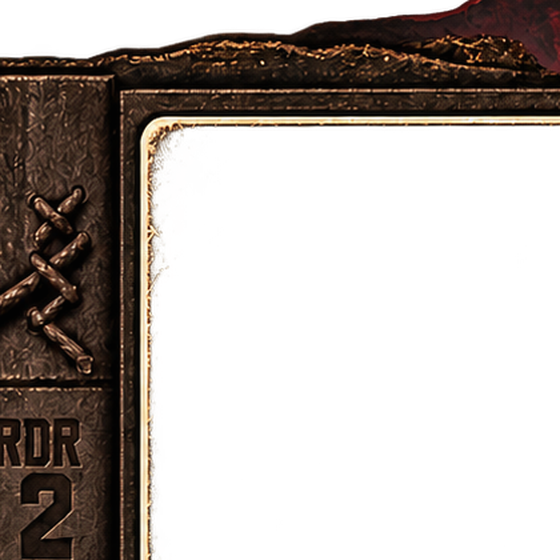
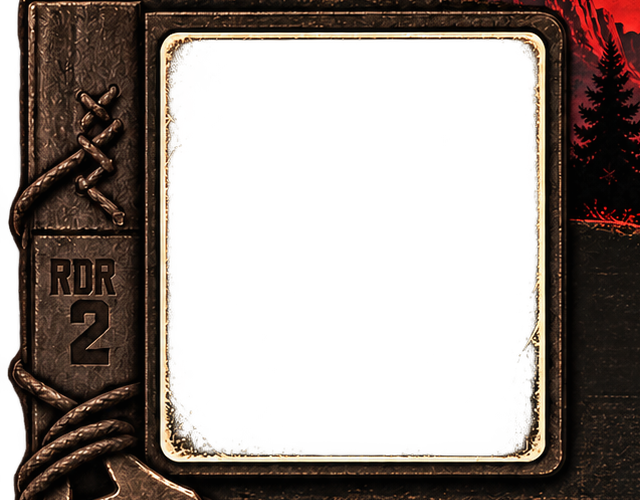
Fix Spotify widget album-art overlay in all four themes
- Re-measured every album-frame opening against the actual crop art
  (previous fractions were eyeballed and wrong):
  VC art was a small square floating in a large opening; RDR2 art sat
  on the leather strap; SA opening was mis-sized.
- Re-cropped RDR2 album.png: the old crop cut off the brass frame's
  right and bottom edges. New 640x500 crop holds the full frame.
- Album art now fills the measured opening box (explicit height, not
  assumed square) so landscape openings compose correctly.
- VC album zone bigger (78cqw) to match the reference proportions.
- SW cache bump ws-shell-v28 / ws-theme-v8.
- theme_tests.js: 602 assertions green, incl. FRAME regression tests.

diff --git a/tools/theme_tests.js b/tools/theme_tests.js
@@ -146,8 +146,8 @@ ok(SW.isThemeAsset('/fonts/SignPainter/0-255.pbf'), 'isThemeAsset: SignPainter g
 ok(SW.isThemeAsset('/fonts/chalet-london.woff2'), 'isThemeAsset: Chalet woff2');
 ok(SW.isThemeAsset('/fonts/rdr-lino.woff2'), 'isThemeAsset: RDR Lino woff2');
 ok(!SW.isThemeAsset('/fonts/pricedown-bl.woff'), 'VC UI font stays shell, not theme-asset');
-ok(swSrc.includes("ws-shell-v26"), 'SW shell cache v24');
-ok(swSrc.includes("ws-theme-v6"), 'SW theme cache v4');
+ok(swSrc.includes("ws-shell-v28"), 'SW shell cache v28');
+ok(swSrc.includes("ws-theme-v8"), 'SW theme cache v8');
 
 /* ---------- per-theme typography (game-authentic fonts) ---------- */
 for (const f of ['bank-gothic.woff', 'beckett.woff2', 'chalet-london.woff2',
@@ -281,7 +281,7 @@ ok(pngAlphaAt(gvAlbumPng, 280, 280) > 200, 'GV album opening opaque black (art l
 ok(gvSkinJs.includes("register('gta-v'"), 'GV skin registers as gta-v');
 ok(gvSkinJs.includes('data-lyrics-stage'), 'GV lyric stage hook present');
 ok(gvSkinJs.includes('setLyricsRenderer') && gvSkinJs.includes('clearLyrics'), 'GV lyric renderer hooks present');
-ok(gvSkinJs.includes('x0: 0.1125') && gvSkinJs.includes('x1: 0.8875'), 'GV art opening fractions 0.1125/0.8875');
+ok(gvSkinJs.includes('x0: 0.12') && gvSkinJs.includes('x1: 0.88'), 'GV art opening fractions 0.12/0.88 (inside the opaque frame)');
 ok(!gvSkinJs.includes('tube.png'), 'GV skin has no tube (no tube art shipped)');
 const gvSkinJsCode = stripComments(gvSkinJs), gvSkinCssCode = stripComments(gvSkinCss);
 for (const banned of ['miniviz', 'stagepeek', 'fullstage', 'gvsp-viz', 'spectrum', 'spotify-close', 'background-size: cover', 'vcsp-']) {
@@ -396,6 +396,28 @@ for (const [id, prefix] of [['vice-city', 'vc'], ['gta-v', 'v'], ['san-andreas',
 const vcRoad = styles['vice-city'].layers.find(l => l.id === 'vc-label-road-major').paint['text-color'];
 const vcPlace = styles['vice-city'].layers.find(l => l.id === 'vc-label-place').paint['text-color'];
 ok(vcRoad !== vcPlace, 'VC: road labels a different tone from place labels');
+
+
+/* ---------- Spotify skin album-frame openings (measured from the crop art) ---------- */
+const FRAME_EXPECTED = {
+  'vice-city':    [0.04, 0.032, 0.958, 0.665],
+  'gta-v':        [0.12, 0.12, 0.88, 0.88],
+  'san-andreas':  [0.07, 0.028, 0.97, 0.905],
+  'rdr2':         [0.3047, 0.14, 0.875, 0.86],
+};
+for (const [theme, exp] of Object.entries(FRAME_EXPECTED)) {
+  const js = fs.readFileSync(path.join(REPO, 'themes', theme, 'spotify-skin.js'), 'utf8');
+  const m = js.match(/const FRAME = \{ x0: ([\d.]+), y0: ([\d.]+), x1: ([\d.]+), y1: ([\d.]+) \}/);
+  ok(!!m, `${theme}: skin declares a FRAME opening`);
+  if (m) {
+    const got = [1, 2, 3, 4].map(i => parseFloat(m[i]));
+    const close = got.every((v, i) => Math.abs(v - exp[i]) < 0.005);
+    ok(close, `${theme}: FRAME opening matches measured art (got ${got.join(',')})`);
+  }
+  // art must size to the opening box (explicit height), not assume a square
+  ok(js.includes("'height:' + ((FRAME.y1 - FRAME.y0)"),
+    `${theme}: album art fills the measured opening box`);
+}
 
 console.log(`\n${pass} passed, ${fail} failed`);
 process.exit(fail ? 1 : 0);

diff --git a/themes/san-andreas/spotify-skin.js b/themes/san-andreas/spotify-skin.js
@@ -36,7 +36,7 @@
 
   /* Album-art placement: square, centered in the frame's measured
      interior opening, as fractions of album.png (560x541). */
-  const FRAME = { x0: 0.075, y0: 0.0776, x1: 0.925, y1: 0.922 };
+  const FRAME = { x0: 0.07, y0: 0.028, x1: 0.97, y1: 0.905 };
 
   const SVG = {
     play: '<svg viewBox="0 0 24 24"><path d="M8 5v14l11-7z"/></svg>',
@@ -72,7 +72,7 @@
         'left:' + (FRAME.x0 * 100).toFixed(2) + '%;' +
         'top:' + (FRAME.y0 * 100).toFixed(2) + '%;' +
         'width:' + ((FRAME.x1 - FRAME.x0) * 100).toFixed(2) + '%;' +
-        'aspect-ratio:1;';
+        'height:' + ((FRAME.y1 - FRAME.y0) * 100).toFixed(2) + '%;';
       root.innerHTML =
         '<img class="sasp-header" src="' + ART + 'header.png" alt="" aria-hidden="true">' +
 

diff --git a/themes/vice-city/spotify-skin.js b/themes/vice-city/spotify-skin.js
@@ -38,7 +38,7 @@
 
   /* Album-art placement: square, centered in the frame's measured
      interior opening, as fractions of album.png. */
-  const FRAME = { x0: 0.139, y0: 0.0454, x1: 0.861, y1: 0.6521 };
+  const FRAME = { x0: 0.04, y0: 0.032, x1: 0.958, y1: 0.665 };
 
   const SVG = {
     play: '<svg viewBox="0 0 24 24"><path d="M8 5v14l11-7z"/></svg>',
@@ -74,7 +74,7 @@
         'left:' + (FRAME.x0 * 100).toFixed(2) + '%;' +
         'top:' + (FRAME.y0 * 100).toFixed(2) + '%;' +
         'width:' + ((FRAME.x1 - FRAME.x0) * 100).toFixed(2) + '%;' +
-        'aspect-ratio:1;';
+        'height:' + ((FRAME.y1 - FRAME.y0) * 100).toFixed(2) + '%;';
       root.innerHTML =
         '<img class="vcsp-header" src="' + ART + 'header.png" alt="" aria-hidden="true">' +
 

diff --git a/themes/gta-v/spotify-skin.js b/themes/gta-v/spotify-skin.js
@@ -40,7 +40,7 @@
 
   /* Album-art placement: square, centered in the frame's measured
      interior opening, as fractions of album.png. */
-  const FRAME = { x0: 0.1125, y0: 0.1125, x1: 0.8875, y1: 0.8875 };
+  const FRAME = { x0: 0.12, y0: 0.12, x1: 0.88, y1: 0.88 };
 
   const SVG = {
     play: '<svg viewBox="0 0 24 24"><path d="M8 5v14l11-7z"/></svg>',
@@ -88,7 +88,7 @@
         'left:' + (FRAME.x0 * 100).toFixed(2) + '%;' +
         'top:' + (FRAME.y0 * 100).toFixed(2) + '%;' +
         'width:' + ((FRAME.x1 - FRAME.x0) * 100).toFixed(2) + '%;' +
-        'aspect-ratio:1;';
+        'height:' + ((FRAME.y1 - FRAME.y0) * 100).toFixed(2) + '%;';
       root.innerHTML =
         '<img class="gvsp-header" src="' + ART + 'header.png" alt="" aria-hidden="true">' +
 

diff --git a/themes/rdr2/spotify-skin.js b/themes/rdr2/spotify-skin.js
@@ -39,7 +39,7 @@
 
   /* Album-art placement: square, centered in the frame's measured
      interior opening, as fractions of album.png. */
-  const FRAME = { x0: 0.119, y0: 0.119, x1: 0.857, y1: 0.857 };
+  const FRAME = { x0: 0.3047, y0: 0.14, x1: 0.875, y1: 0.86 };
 
   const SVG = {
     play: '<svg viewBox="0 0 24 24"><path d="M8 5v14l11-7z"/></svg>',
@@ -75,7 +75,7 @@
         'left:' + (FRAME.x0 * 100).toFixed(2) + '%;' +
         'top:' + (FRAME.y0 * 100).toFixed(2) + '%;' +
         'width:' + ((FRAME.x1 - FRAME.x0) * 100).toFixed(2) + '%;' +
-        'aspect-ratio:1;';
+        'height:' + ((FRAME.y1 - FRAME.y0) * 100).toFixed(2) + '%;';
       root.innerHTML =
         '<img class="rdsp-header" src="' + ART + 'header.png" alt="" aria-hidden="true">' +
 

diff --git a/sw.js b/sw.js
@@ -9,8 +9,8 @@
      used. Nothing theme-specific is eagerly precached except the
      default Vice City set.
    Map tiles, routing and search always go to the network. */
-const CACHE = 'ws-shell-v27';
-const THEME_CACHE = 'ws-theme-v7';
+const CACHE = 'ws-shell-v28';
+const THEME_CACHE = 'ws-theme-v8';
 const VC_BLIPS = ['airYard','barbers','burgerShot','cash','chicken','dateDisco','dateDrink',
   'dateFood','diner','fuel','girlfriend','gym','hostpital','modGarage','north','parking',
   'pizza','police','propertyG','qmark','race','runway','saveGame','school','spray','tattoo','waypoint'];

diff --git a/themes/rdr2/spotify-skin.css b/themes/rdr2/spotify-skin.css
@@ -32,13 +32,13 @@
 .rdsp-albumzone {
   position: relative;
   flex: none;
-  width: min(34cqh, 58cqw);
-  aspect-ratio: 1;
+  width: min(40cqh, 72cqw);
+  aspect-ratio: 640 / 500;
   margin: 1.2cqh auto 0;
 }
 .rdsp-art {
   position: absolute; z-index: 1;
-  object-fit: cover;
+  object-fit: cover; border-radius: 3%;
   opacity: 0; transition: opacity .45s ease;
   background: #0d0906;
 }

diff --git a/themes/vice-city/spotify-skin.css b/themes/vice-city/spotify-skin.css
@@ -32,13 +32,13 @@
 .vcsp-albumzone {
   position: relative;
   flex: none;
-  width: min(36.2cqh, 62cqw);
+  width: min(46cqh, 78cqw);
   aspect-ratio: 500 / 595;
   margin: 0 auto;
 }
 .vcsp-art {
   position: absolute; z-index: 1;
-  object-fit: cover; border-radius: 3%;
+  object-fit: cover; border-radius: 4%;
   opacity: 0; transition: opacity .45s ease;
   background: #000;
 }

diff --git a/themes/gta-v/spotify-skin.css b/themes/gta-v/spotify-skin.css
@@ -49,7 +49,7 @@
 }
 .gvsp-art {
   position: absolute; z-index: 3;
-  object-fit: cover;
+  object-fit: cover; border-radius: 2%;
   opacity: 0; transition: opacity .45s ease;
   background: #000;
 }

diff --git a/themes/san-andreas/spotify-skin.css b/themes/san-andreas/spotify-skin.css
@@ -40,7 +40,7 @@
 }
 .sasp-art {
   position: absolute; z-index: 1;
-  object-fit: cover;
+  object-fit: cover; border-radius: 4%;
   opacity: 0; transition: opacity .45s ease;
   background: #000;
 }

diff --git a/tools/build_music_widget_crops.py b/tools/build_music_widget_crops.py
@@ -7,7 +7,7 @@ Album-frame interior openings were measured off grid overlays; the
 fractions below are consumed by each theme's spotify-skin.js so live
 album art sits exactly inside the art's frame.
 
-RDR2 (1254x1254): album opening (105,275)-(415,585)
+RDR2 (1254x1254): album opening (195,350)-(560,710)
 GTA V (1155x1362): album opening (75,485)-(385,795)
 SA   (1254x1254): album opening (65,385)-(575,875)
 """
@@ -22,11 +22,11 @@ JOBS = {
         'src': f'{LIB}/31/31dd4b29908afc388d318c4a0b727f97eb4e59ff8bdf4060cf8599a4965e2287.png',
         'crops': {
             'header.png': ((400, 190, 1254, 440), 960),
-            'album.png': ((55, 225, 475, 645), 560),
+            'album.png': ((0, 280, 640, 780), 640),  # full brass frame + strap; old box cut the frame's right/bottom
             'stage.png': ((180, 680, 1150, 950), 960),
         },
         # fractions of album.png
-        'frame': (0.119, 0.119, 0.857, 0.857),
+        'frame': (0.3047, 0.14, 0.875, 0.86),  # measured: opening (195,350)-(560,710) of the 640x500 crop
     },
     'gta-v': {
         'src': f'{LIB}/4e/4ea2940e0dbca559d705dc88fa4b800a62a84d3b8dde10e55181ff60dc216b1d.png',
@@ -44,7 +44,7 @@ JOBS = {
             'album.png': ((20, 340, 620, 920), 560),
             'stage.png': ((20, 880, 1230, 1230), 960),
         },
-        'frame': (0.075, 0.0776, 0.925, 0.922),
+        'frame': (0.07, 0.028, 0.97, 0.905),  # measured off the 560x541 crop (art goes UNDER)
     },
 }
 
